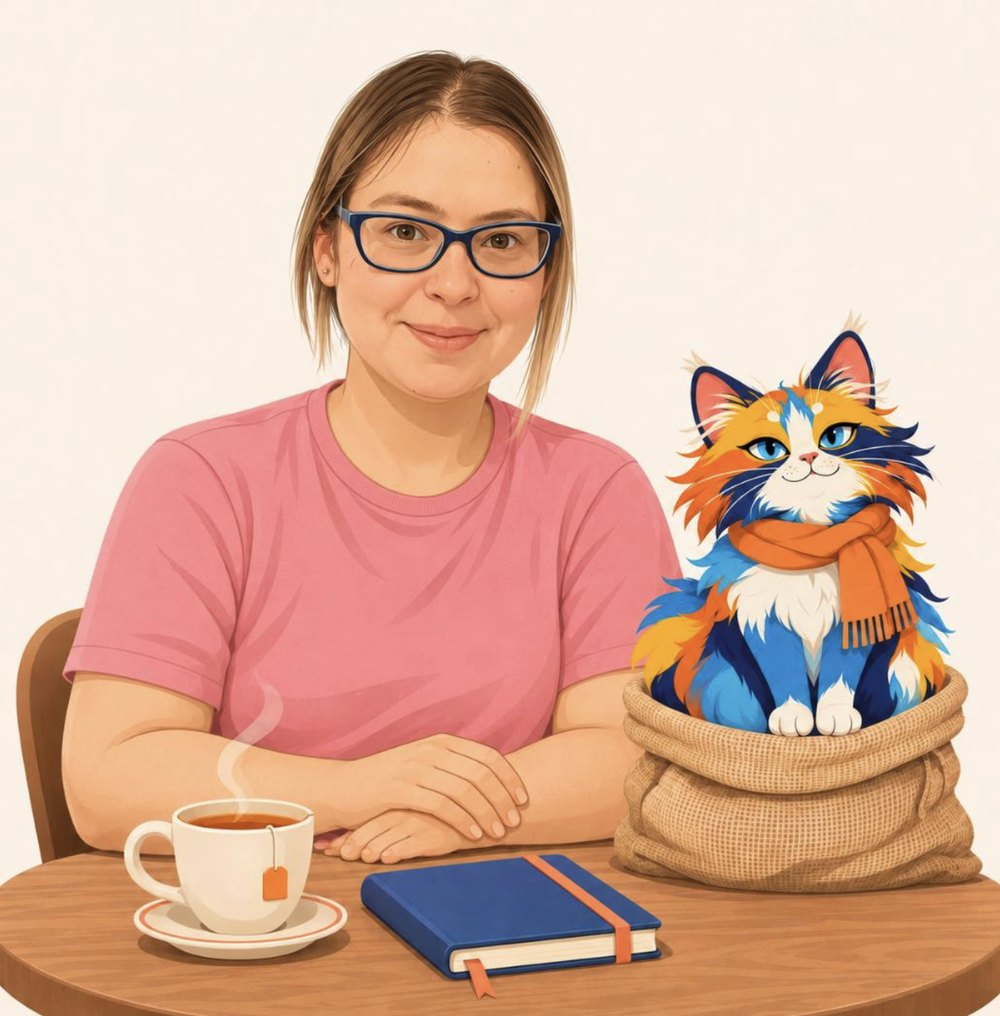
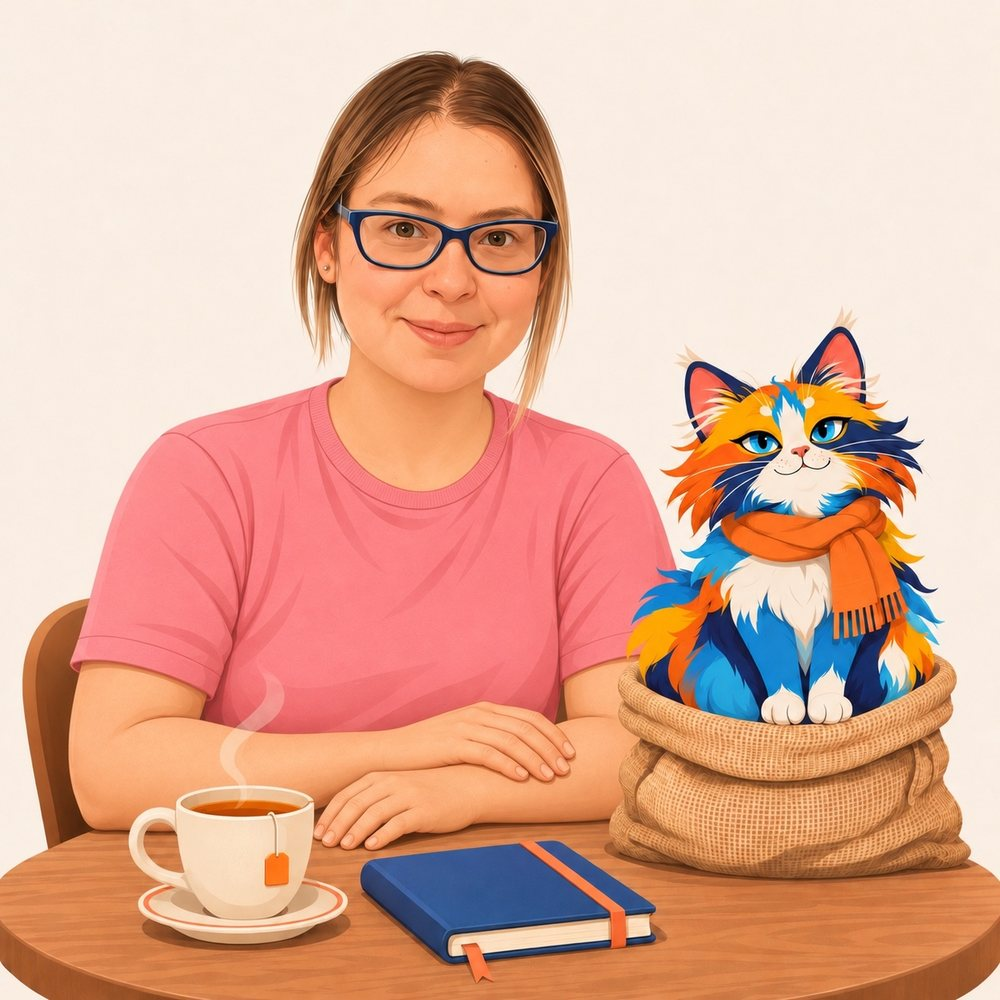
Главная: исправленный портрет Дили с Котейкой (руки), 1000×1000
Claude-Session: https://claude.ai/code/session_016bVaCQyfwyCtB86fKvsZ4q

diff --git a/index.html b/index.html
@@ -192,7 +192,7 @@ function artFail(img){
 <!-- 10. Кто это придумал -->
 <section class="wrap block" aria-labelledby="about-h">
   <div class="about">
-    <figure class="art about-pic"><img src="/img/dilya-kotejka.jpg" width="1000" height="1016" loading="lazy" data-i18n-attr="alt:about.alt" alt="Диля Хакимова и Котейка за столом в кафе" onerror="artFail(this)"><figcaption class="ph"></figcaption></figure>
+    <figure class="art about-pic"><img src="/img/dilya-kotejka.jpg?v=2" width="1000" height="1000" loading="lazy" data-i18n-attr="alt:about.alt" alt="Диля Хакимова и Котейка за столом в кафе" onerror="artFail(this)"><figcaption class="ph"></figcaption></figure>
     <div>
       <h2 id="about-h" data-i18n="about.title">Кто это придумал</h2>
       <p data-i18n="about.text">Диля Хакимова — математик, аналитик и исследователь. Окончила мехмат МГУ и РЭШ, преподаёт с 2002 года. Автор открытого интенсива <a href="https://shad.yandex.ru/abweek">A/B Week</a> в Школе анализа данных — больше 10&nbsp;000 участников. Сооснователь <a href="https://pelican.study/">«Пеликана»</a> — курсов олимпиадной математики для младших школьников.</p>
